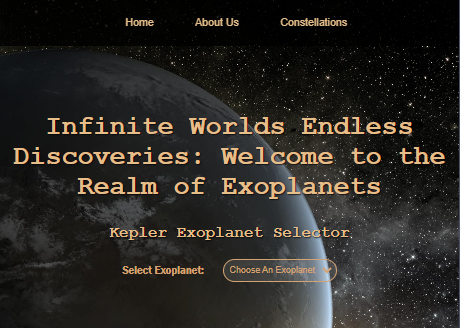
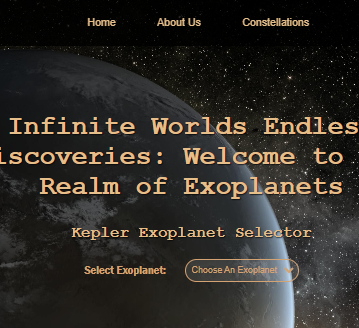
nine

diff --git a/index.html b/index.html
@@ -6,12 +6,32 @@
     <meta name="viewport" content="width=device-width, initial-scale=1.0">
     <title>Document</title>
     <script src="https://kit.fontawesome.com/8ca1d4a89e.js" crossorigin="anonymous"></script>
+    
+        <link rel="stylesheet" href="https://cdnjs.cloudflare.com/ajax/libs/font-awesome/6.4.2/css/all.min.css">
+  
+    
+    
     <link rel="stylesheet" href="style.css">
     <link rel="stylesheet" href="responsive.css">
     <link rel="stylesheet" href="root.css">
 </head>
 
 <body>
+    <section class="navbar-mobile">
+        <div class="title">
+            <h5><span style="color: #FD6F00;">Rakin</span></h5>
+        </div>
+        <div class="search-box">
+            <input type="text" placeholder="Search...">
+            <button><i class="fa-solid fa-search"></i></button>
+        </div>
+        
+        
+        <div class="bar">
+            <i class="fa-solid fa-bars" style="color: #ff2b05;"></i>
+        </div>
+
+    </section>
     <section class="header-container">
         <div class="container">
             <div class="logo-name">
@@ -32,6 +52,8 @@
         </div>
     </section>
 
+
+
     <section class="main-body">
         <div class="intro">
             <div class="intro-des">
@@ -40,6 +62,8 @@
                     A CREATIVE WEB DEVELOPER<br>
                     BASED IN <span style="color:#FD6F00">CHITTAGONG</span>
                 </h5>
+          
+                
             </div>
         
             <div class="intro-button">
@@ -90,7 +114,7 @@
     <section class="experience-stat">
 
         <div class="experience-left">
-            <p>Experience</p>
+          
             <h2>MY EXPERIENCE</h2>
             <p>I'm a passionate Creative Frontend developer with a knack for
                 <br>crafting visually compelling and impactful designs

diff --git a/responsive.css b/responsive.css
@@ -11,7 +11,7 @@
         box-sizing: border-box;
 
         margin-left: 0;
-        margin-right: 0;
+      
       }
       .container, .ux-case-study1 {
         width: 100%;
@@ -212,7 +212,71 @@
             object-fit: cover;
         }
     
+
+        .sitenav h4 
+        {
+            display: none;
+        }
+        .logo-name
+        {
+            display: none;
+        }
+
+        
+        .navbar-mobile
+        {
+            display: block;
+        }
+        .bar-img img
+        {
+       background-color: brown;
+}
+
+.search-box {
+    display: flex;
+    align-items: center;
+    border: 2px solid #090909;
+    border-radius: 30px;
+    overflow: hidden;
+    width: fit-content
+}
+
+.search-box input {
+    border: none;
+    padding: 8px;
+    padding-right: 4px;
+    padding-left: 4px;
+   
+    outline: none;
+    background-color: rgb(27, 27, 27);
+    flex: 1;
+}
+
+.search-box button {
+    background-color: rgb(27, 27, 27);
+    color: rgba(178, 58, 11, 0.648);
+    border: none;
+    padding: 8px 12px;
+    cursor: pointer;
+}
+
+.search-box button:hover {
+    background-color: #ce450096;
+}
+.title h5 
+{
+    font-style: italic;
+    font-weight: 800;
+    font-size: 25px;
+
+} 
+.navbar-mobile 
+{
+    display: flex;
+    flex-direction: ROW;
+    justify-content: space-evenly;
+    align-items: center;
+
 }
   
-  
-    
+}

diff --git a/style.css b/style.css
@@ -1,4 +1,8 @@
 /* navbar start    */
+.navbar-mobile
+{
+    display: none;
+}   
 .logo-name h3
 {
     color: #FD6F00;
